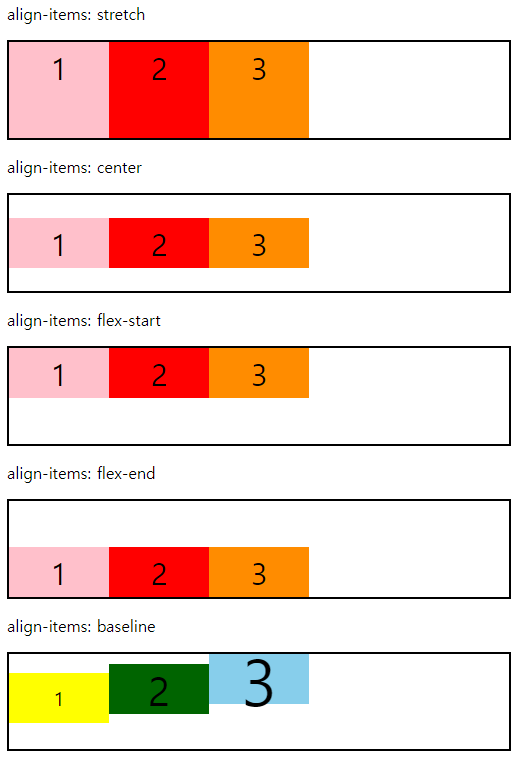
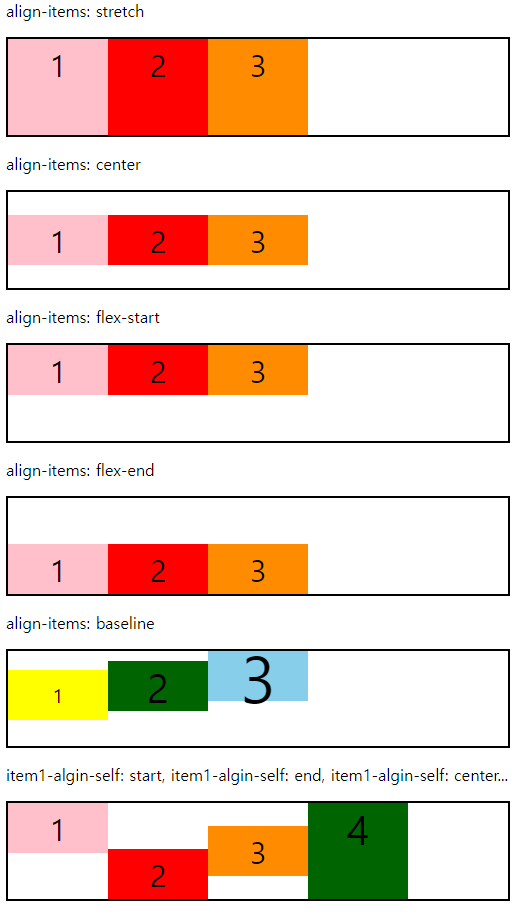
align-items 수정

diff --git a/responsive-web/flexbox-basic.md b/responsive-web/flexbox-basic.md
@@ -52,6 +52,8 @@ Item을 cross axis를 기준으로 나열하는 방법을 나타낸다.
 * baseline
 * center
 
+위와 같이 container에 속성을 부여하여 일괄적으로 처리할 수도 있고 align-self 속성을 사용하여 item 각각에 속성을 부여하여 처리할 수도 있다.
+
 ![align-items](img/align-items.PNG)
 
 <br/>
